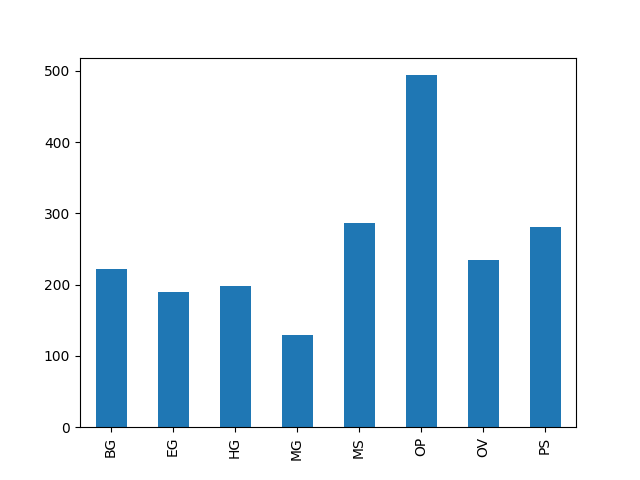
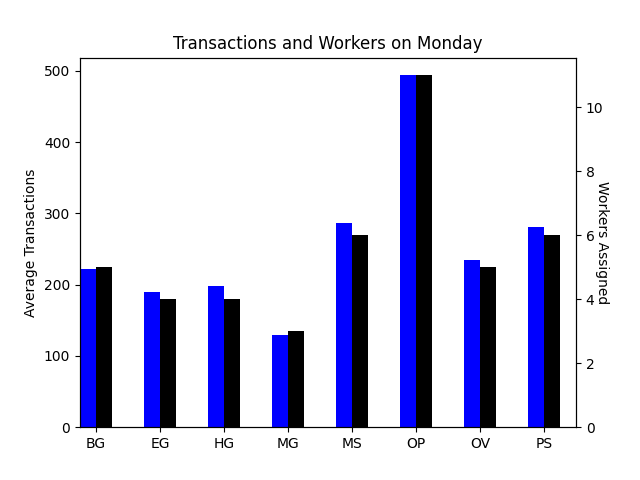
New histogram code

diff --git a/histograms.py b/histograms.py
@@ -5,6 +5,13 @@ import matplotlib.pyplot as plt
 
 locations = ["BG", "EG", "HG", "MG", "MS", "OP", "OV", "PS"]
 weekdays = ["Monday", "Tuesday", "Wednesday", "Thursday", "Friday"]
+daily_apportionments = pd.DataFrame([
+  [5, 4, 4, 3, 6, 11, 5, 6],
+  [4, 4, 4, 3, 6, 11, 5, 6],
+  [4, 4, 4, 3, 7, 10, 4, 6],
+  [4, 4, 4, 3, 6, 10, 5, 6],
+  [4, 5, 5, 3, 7, 6, 5, 6]
+], columns=locations).transpose()
 """
 trans_data = parsing.parsedHalfHourData()
 for day in weekdays:
@@ -21,8 +28,16 @@ fig.savefig("graphs/Sunday at HG.png")
 """
 daily_averages = parsing.parsedTotals()
 daily_averages = daily_averages.loc[:, daily_averages.columns!="Weekday"].transpose()
+print(daily_averages)
+print(daily_apportionments)
 for i in range(len(weekdays)):
-  ax = daily_averages.plot.bar(y=i)
-  ax.get_legend().remove()
+  fig = plt.figure()
+  ax = fig.add_subplot(111)
+  ax2 = ax.twinx()
+  daily_averages.plot(kind="bar", y=i, color="blue", ax=ax, width=0.25, position=1, legend=None, title="Transactions and Workers on " + weekdays[i])
+  daily_apportionments.plot(kind="bar", y=i, color="black", ax=ax2, width=0.25, position=0, legend=None)
+  ax.set_ylabel("Average Transactions")
+  ax2.set_ylabel("Workers Assigned", rotation=270)
+  ax.set_xticklabels(locations, rotation=0)
   fig = ax.get_figure()
   fig.savefig("graphs/" + weekdays[i] + " Totals.png")
